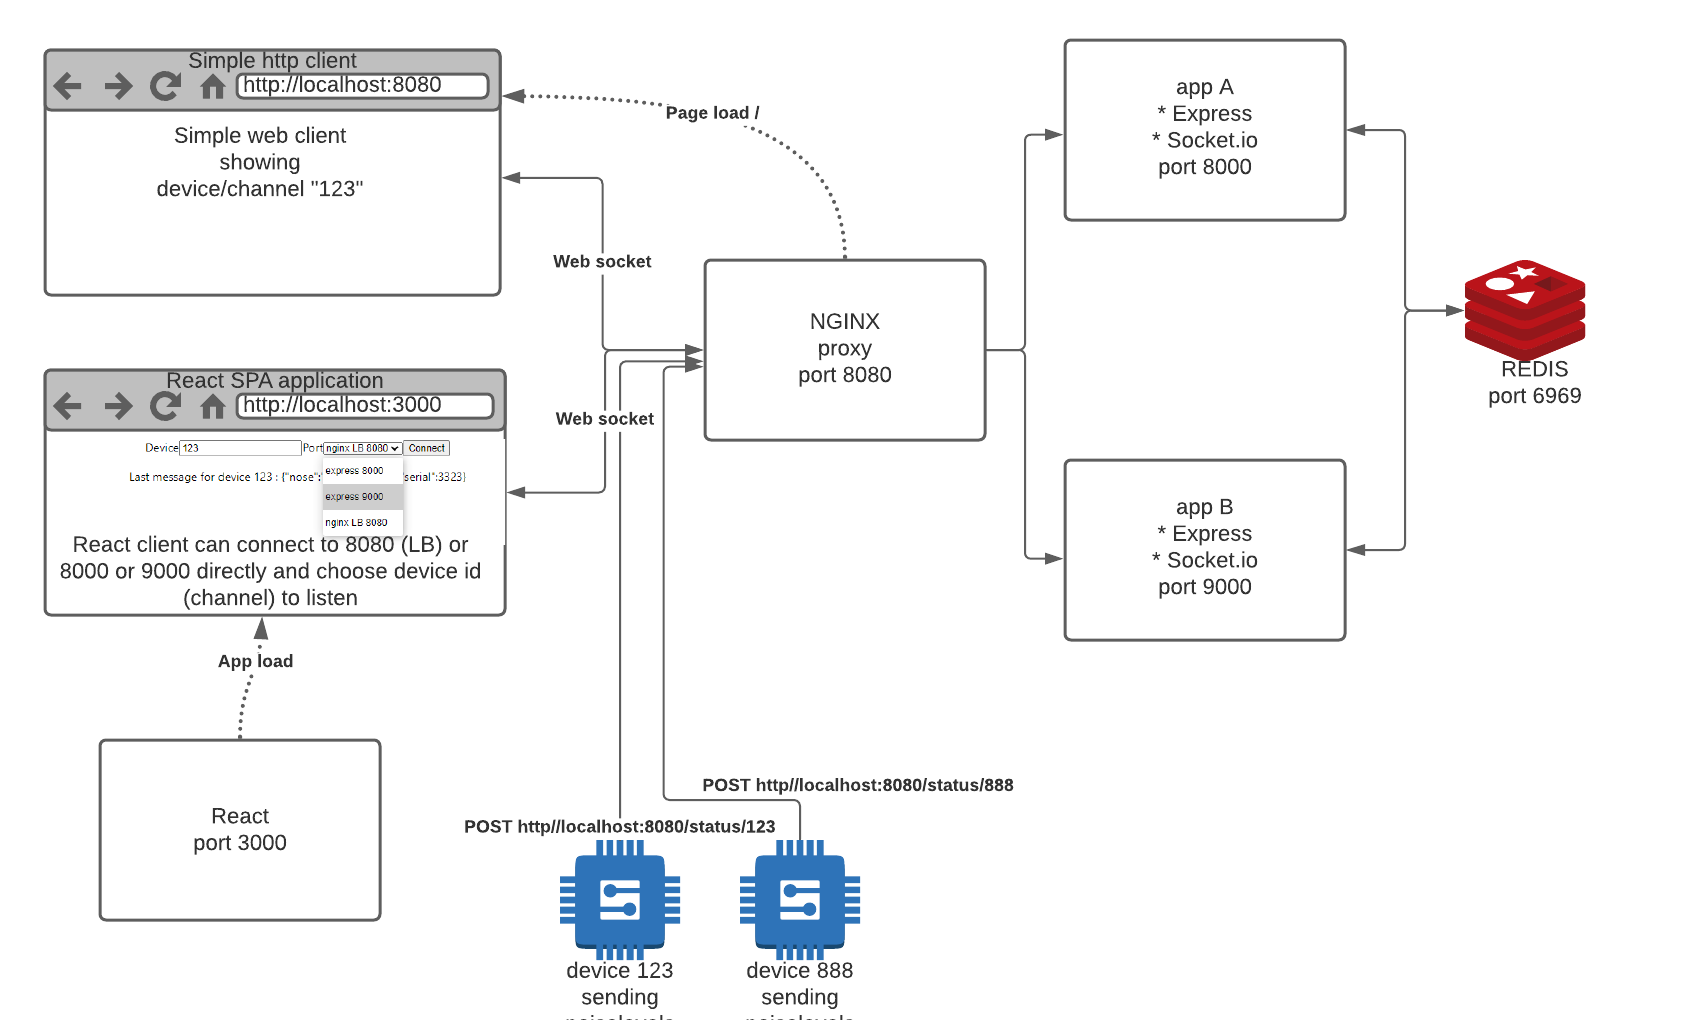
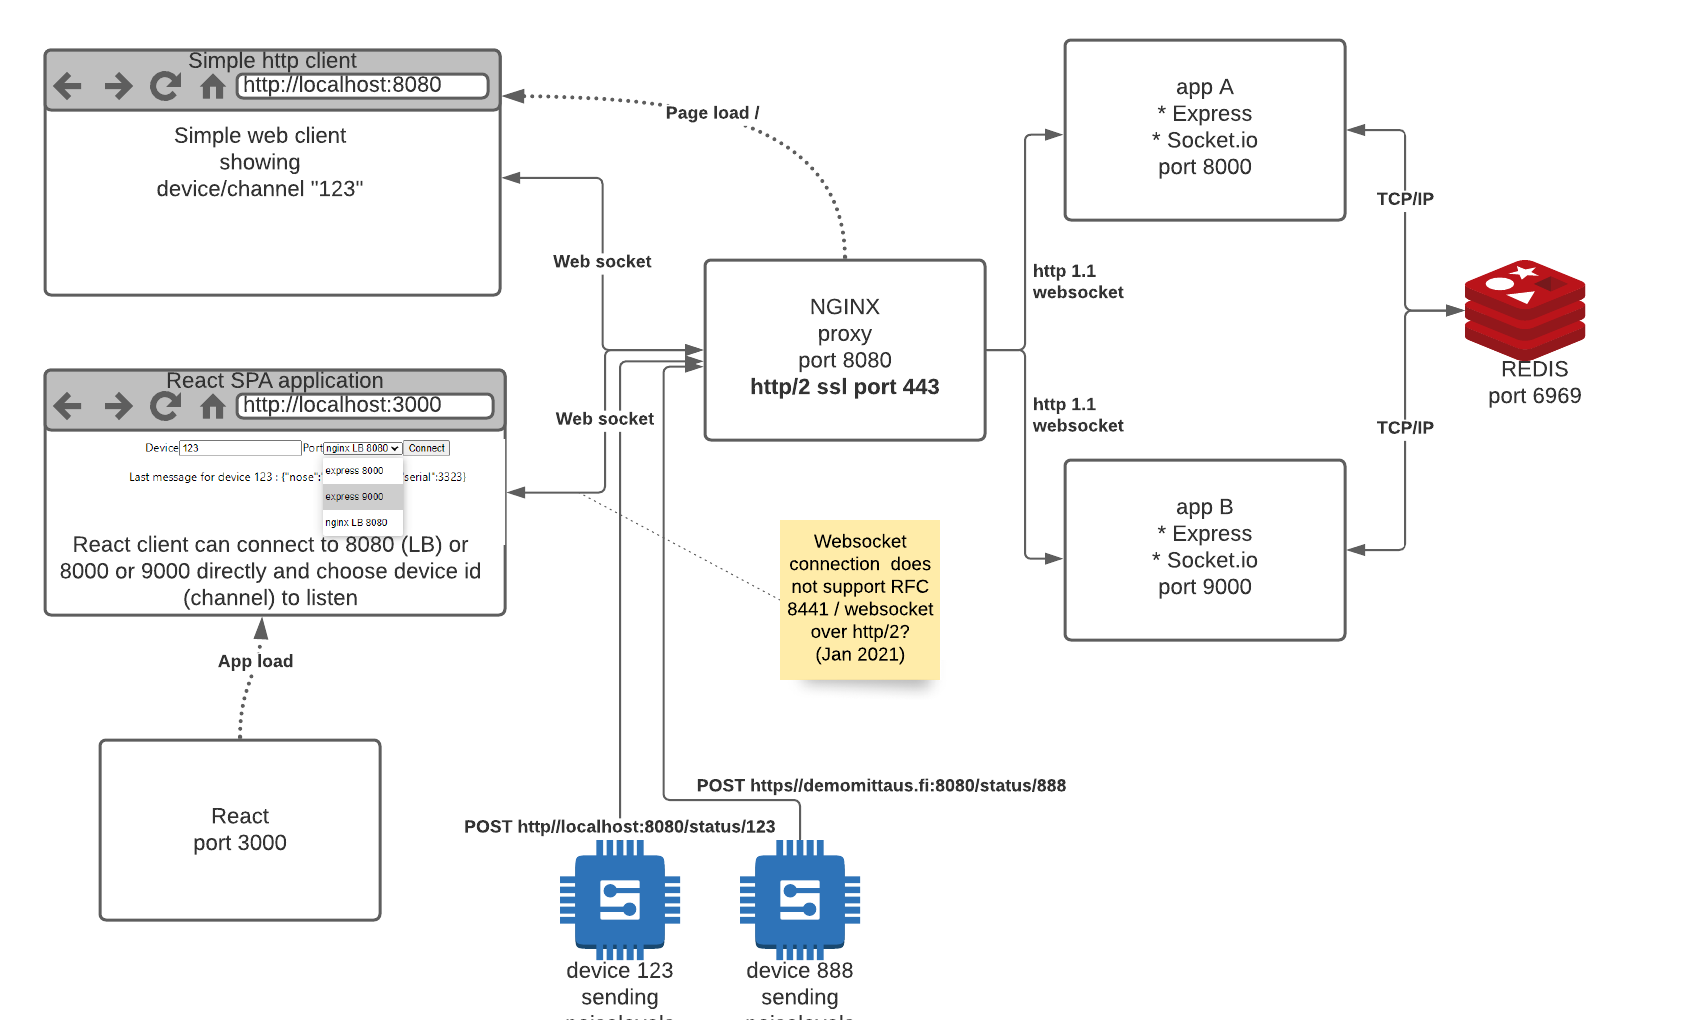
http/2 SSL with self signed cert

diff --git a/listener/src/App.js b/listener/src/App.js
@@ -17,7 +17,8 @@ function App() {
       socket.close();
       setSocket({})
     }
-    const s1 = socketIOClient(`http://localhost:${serverport}`, {
+    const address = (serverport === "443") ? 'wss://demomittaus.fi':`ws://demomittaus.fi:${serverport}`
+    const s1 = socketIOClient(address, {
             query: { token: device }
         });
     setSocket(s1)
@@ -44,9 +45,10 @@ function App() {
           value={serverport}
           onChange={e => setServerport(e.target.value)}          
         >
-          <option value="8000">express 8000</option>
-          <option value="9000">express 9000</option>
-          <option value="8080">nginx LB 8080</option>
+          <option value="8000">http/ws (non secure) app A port 8000</option>
+          <option value="9000">http/ws (non secure) app B port 9000</option>
+          <option value="8080">http/nginx load balancher port 8080</option>
+          <option value="443">http/2 (firefox) wss on port 443</option>
           </select>
       </label>
       <input type="submit" value="Connect" />

diff --git a/app/server.js b/app/server.js
@@ -6,7 +6,9 @@ var cors = require('cors');
 const http = require('http').Server(app);
 const io = require('socket.io')(http,{
     cors: {
-        origin: ["http://localhost:3000","http://localhost:8080"],
+        origin: ["http://localhost:3000","http://localhost:8080","http://localhost:8000","http://localhost:9000",
+        "http://demomittaus.fi:3000","http://demomittaus.fi:8080","http://demomittaus.fi:8000","http://demomittaus.fi:9000",
+        "https://demomittaus.fi"]
       }
 });
 const redis = require('socket.io-redis');

diff --git a/app/index.html b/app/index.html
@@ -69,8 +69,9 @@
     <script src="/socket.io/socket.io.js"></script>
     <script>
         const token = "123";
-        var socket = io.connect('http://localhost:8000', {
+        var socket = io.connect( 'wss://demomittaus.fi', {
             query: { token }
+            
         });
 
         var messages = document.getElementById('messages');

diff --git a/README.md b/README.md
@@ -13,17 +13,17 @@ If you try to send from  html clients they send devicecommand messages but they 
 
 There is also authentication layer (dummy one) to demonstrate how to authenticate listeners
 
-Very  ugly and simple React client is listening port 3000. It can connect directly to app A listening port 8000 or B listening port 9000 or nging listening port 8080 which acts as Sticky style load balancher between A and B. 
+Very  ugly and simple React client is listening port 3000. It can connect directly to app A listening port 8000 or B listening port 9000 or nging listening port 443 which acts as Sticky style load balancher between A and B. 
 
 React client you can also select which device ID you connect.  (html clients is listening only device 123).  Devices are impelemted using socket.io channels.
 
 You can send messages "from devices" by connecting
 
-`POST http://localhost:8080/status/:deviceid`  or port 9000 or 8080
+`POST https://localhost:443/status/:deviceid`  or port 9000 or 443 (https)
 with curl or insomnia or some other rest client
 
 ```
-POST http://localhost:8080/status/123
+POST https://localhost:443/status/123
 {
     "noicelevel": 123,
     "whateverdata":"data"
@@ -35,11 +35,11 @@ POST http://localhost:8080/status/123
 
 `docker-compose up`
 
-open browser on http://localhost:3000 (react client) or through load balancher http://localhost:8080, which opens either app A or app B simplme html client listening device 123 
+open browser on http://localhost:3000 (react client) or through load balancher https://localhost:443, which opens either app A or app B simplme html client listening device 123 
 
 With react client you can choose what ever "device" (aka channel) you like.
 
-send message using curl post or REST client to port 8080 (or 8000,9000)
+send message using curl post or REST client to port 443 (or 8000,9000)
 
 All messages are spread between app A and app B.
 
@@ -54,4 +54,10 @@ https://socket.io/docs/v3/
 https://socket.io/get-started/chat/ following example but changing channels and rooms to
 devices 
 
+# http/2 and ssl
 
+Generate ssl certificate for system
+
+`cd nginx && openssl req -x509 -nodes -days 365 -newkey rsa:2048 -keyout nginx-selfsigned.key -out nginx-selfsigned.crt`
+
+Add also local hostfile your domain name like 'demomittaus.fi'
